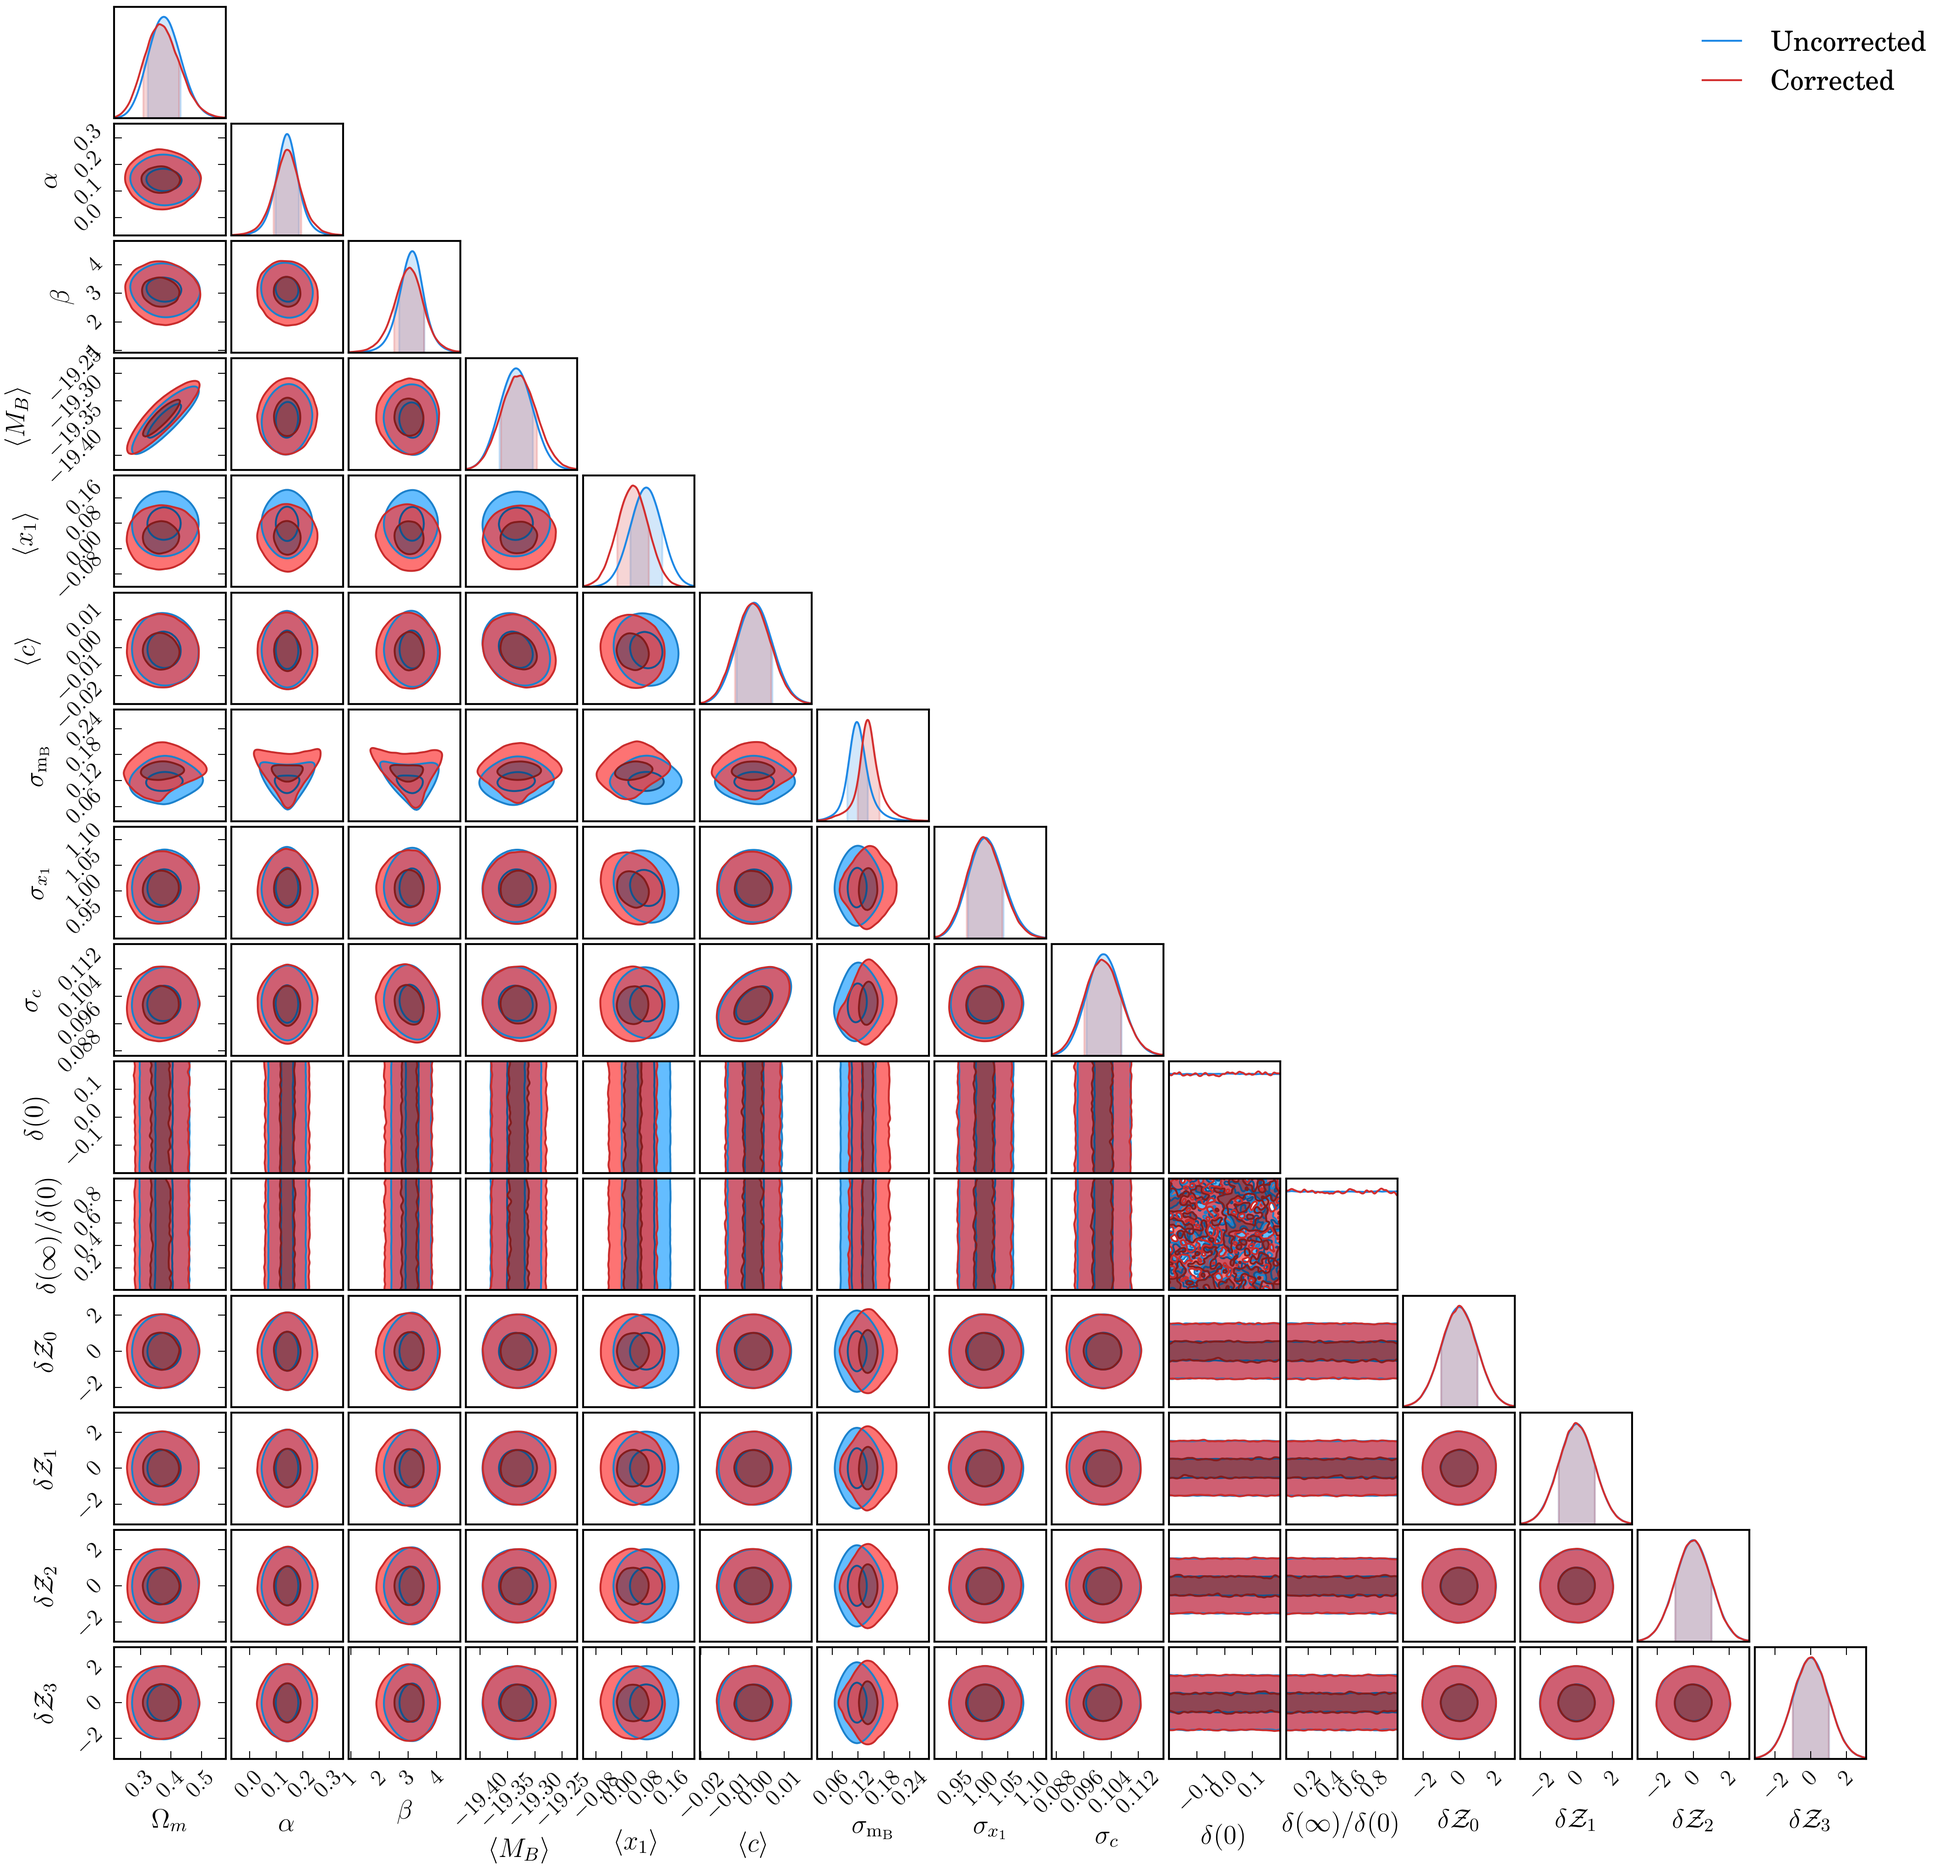
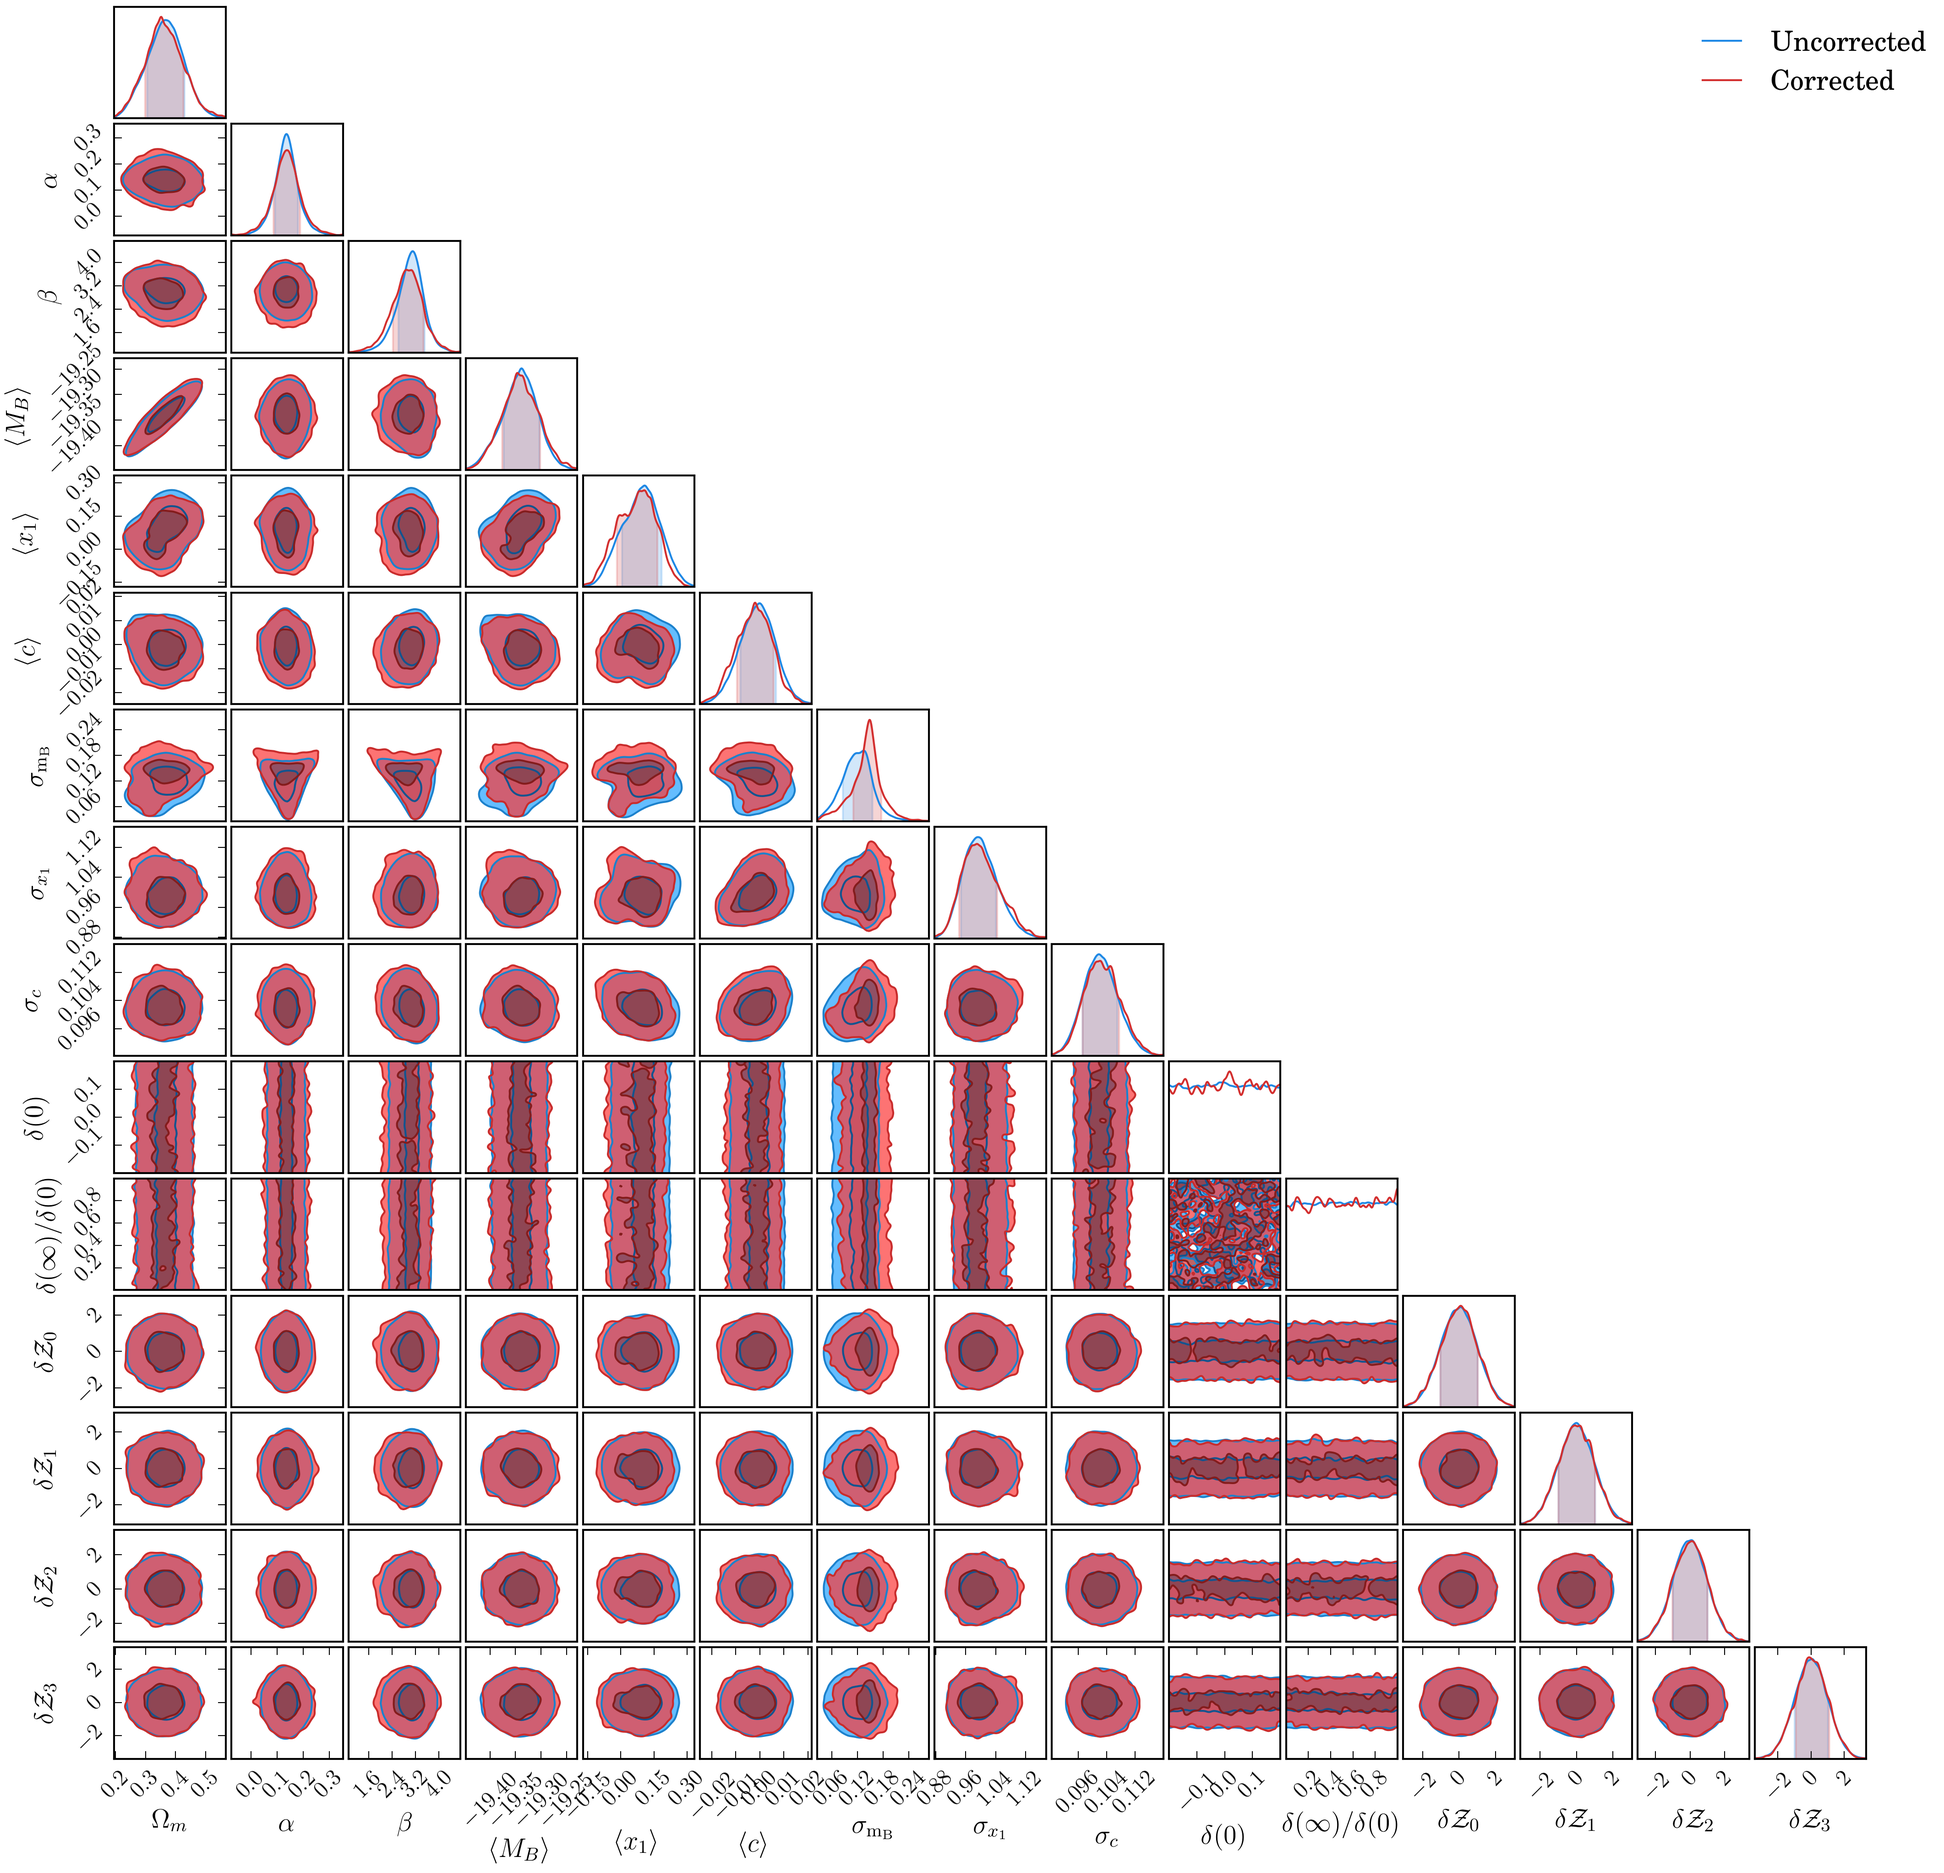
So shit still aint working, and thats starting to annoy me

diff --git a/dessn/models/d_simple_stan/load.py b/dessn/models/d_simple_stan/load.py
@@ -35,7 +35,7 @@ def get_chain(filename, name_map, replace=True):
     return chain
 
 
-def load_stan_from_folder(folder, replace=True, merge=True, cut=False, num=None, max_deviation=3):
+def load_stan_from_folder(folder, replace=True, merge=True, cut=False, num=None, max_deviation=3, trim=True, trim_v=-8):
     vals = get_truths_labels_significance()
     full_params = [[k[2]] if not isinstance(k[2], list) else k[2] for k in vals if k[2] is not None]
     params = [[k[2]] if not isinstance(k[2], list) else k[2] for k in vals if
@@ -80,11 +80,16 @@ def load_stan_from_folder(folder, replace=True, merge=True, cut=False, num=None,
                 weights[weights > 0] = 0
             else:
                 weights -= weights.max()
+            if trim:
+                mask = (weights > trim_v) | (np.random.uniform(size=weights.size) > 0.99)
+                for k in chain.keys():
+                    chain[k] = chain[k][mask]
+                posterior = posterior[mask]
+                weights = weights[mask]
             weights = np.exp(weights)
             del chain["weight"]
         else:
             weights = np.ones(posterior.shape)
-
         if "calc_weight" in chain.keys():
             del chain["calc_weight"]
         elif "calc\\_weight" in chain.keys():
